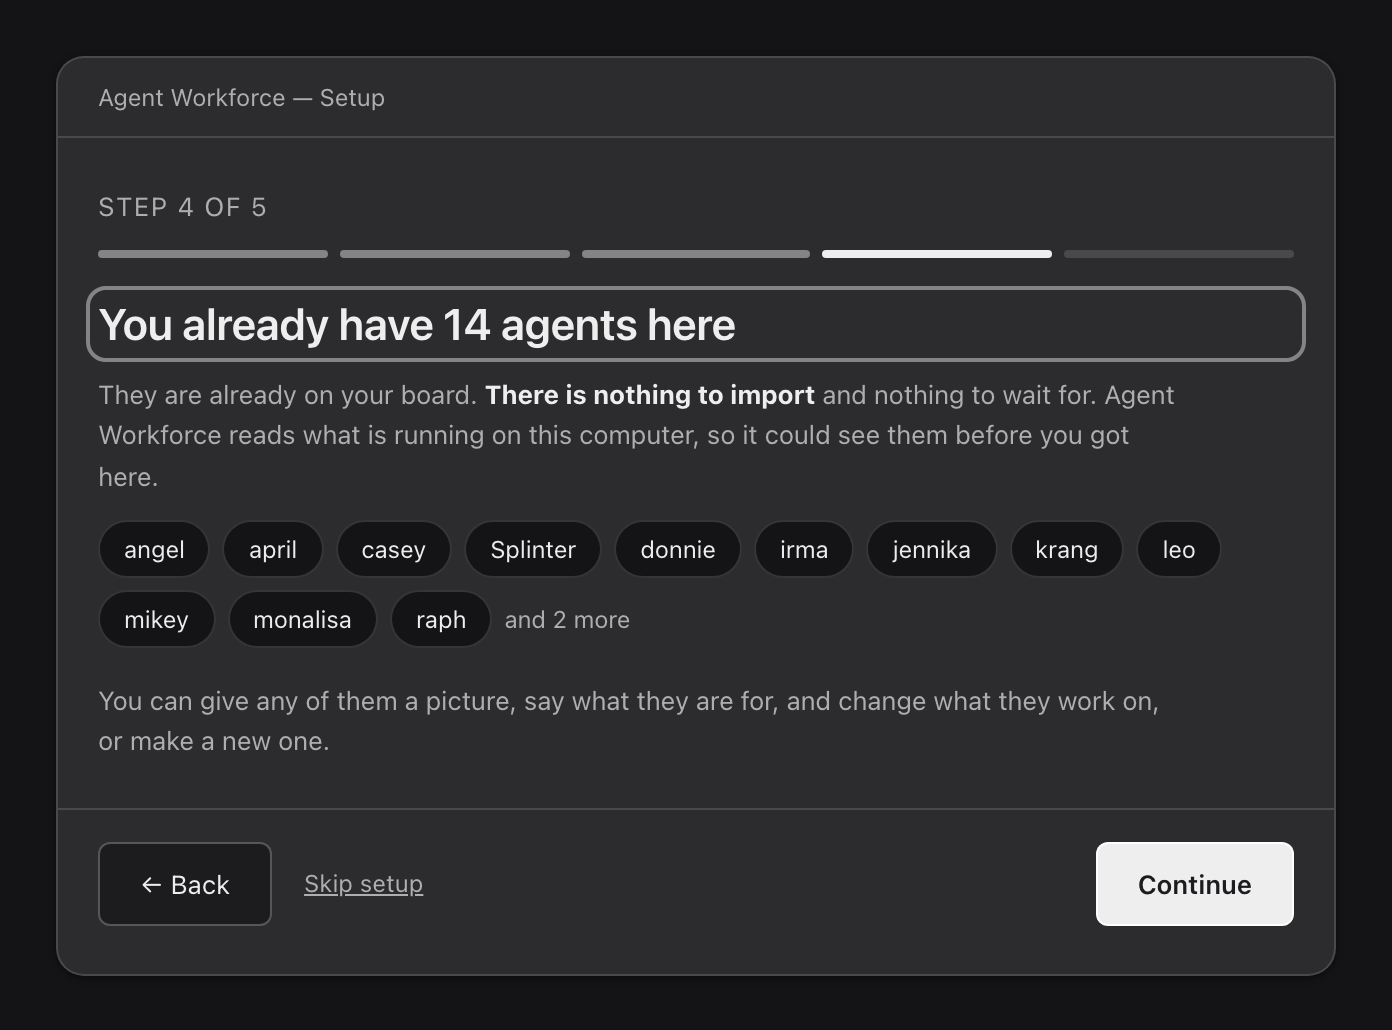
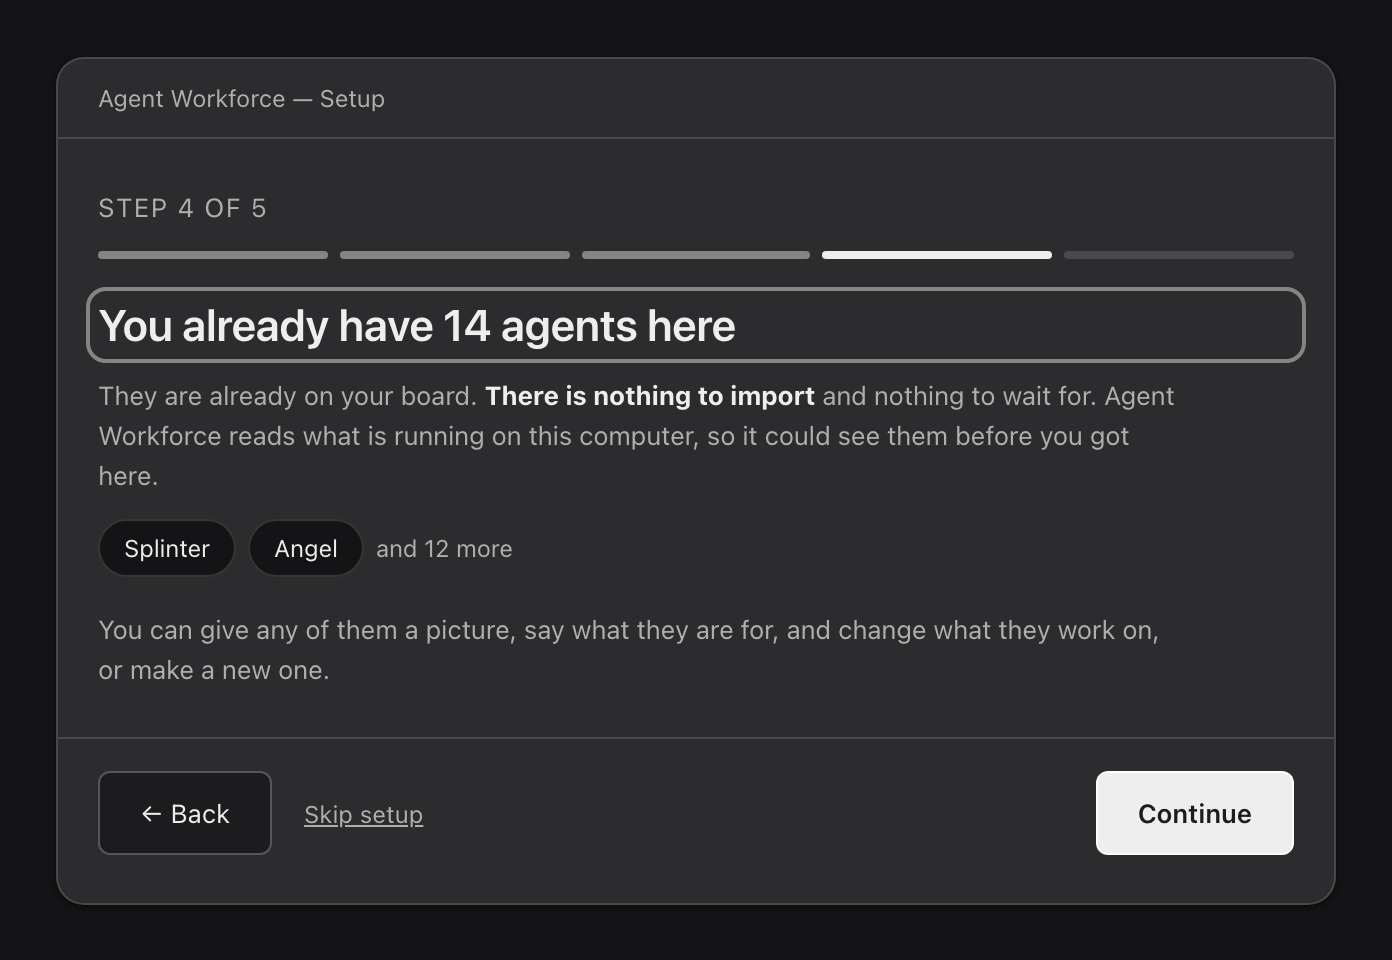
orientation-step -- address review round 7: the triggers are pinned like the guard, every committed picture is machine-independent

diff --git a/docs/browser-checks/render-first-run.js b/docs/browser-checks/render-first-run.js
@@ -16,13 +16,16 @@ const HEADED = process.env.HEADED !== '0';
 fs.mkdirSync(OUT, { recursive: true });
 
 /**
- * ⚠ THERE IS NO ALL-CLEAR FIXTURE, DELIBERATELY. There was one, and it went
- * stale: the engine's restart copy was corrected and the fixture kept the old
- * wording, so the committed screenshot -- which is the PR's visual evidence --
- * showed a screen the product could no longer produce. A hand-written fixture
- * for the HAPPY path is pure drift risk, because the happy path is exactly what
- * this machine already answers. So the clear shot is taken against the LIVE
- * route and cannot disagree with the engine.
+ * ⚠ NO SHOT DEPENDS ON THE MACHINE THAT RENDERS IT, and no fixture is
+ * TYPED. History, because the rule inverted once in each direction: a
+ * hand-written all-clear fixture went stale against corrected engine copy
+ * (so fixtures must be ENGINE-GENERATED, never typed); then the live-route
+ * clear shot became unsatisfiable on any machine without Kosmos.app, and
+ * live-route shots were drifting per machine (a create-path machine would
+ * re-shoot the adopt pictures as create). The standing rule is both
+ * halves: every payload a shot depends on is pinned, and every pinned
+ * payload is generated by the real engine with a control asserting the
+ * state it claims.
  *
  * A machine that is fine cannot be asked to demonstrate a finding, so the mixed
  * case still needs one -- but it is GENERATED BY THE ENGINE rather than typed
@@ -131,7 +134,8 @@ const FLEET_REAL = null; // let the real server answer
 // the live /api/first-run, so a create-path machine would commit different
 // buttons under the same four filenames (the same drift the clear shot was
 // moved off the live route for). Adopt, matching the committed pictures.
-const FLEET_STEP5 = { done: false, fleetKnown: true, fleetCount: 14, fleetNames: ['Splinter', 'Angel'], path: 'adopt', subscription: { state: 'connected', plan: 'Claude Max 20x', because: '' } };
+const FLEET_ADOPT = { done: false, fleetKnown: true, fleetCount: 14, fleetNames: ['Splinter', 'Angel'], path: 'adopt', subscription: { state: 'connected', plan: 'Claude Max 20x', because: '' } };
+const FLEET_STEP5 = FLEET_ADOPT;
 const FLEET_CREATE = { done: false, fleetKnown: true, fleetCount: 0, fleetNames: [], path: 'create', subscription: { state: 'connected', plan: 'Claude Max 20x', because: '' } };
 const FLEET_BLIND = { done: false, fleetKnown: false, fleetCount: null, fleetNames: [], path: 'unknown', subscription: { state: 'connected', plan: 'Claude Max 20x', because: '' } };
 const SUB_NONE = { done: false, fleetKnown: true, fleetCount: 0, fleetNames: [], path: 'create', subscription: { state: 'none', plan: null, because: 'Claude has not been set up on this computer yet.' } };
@@ -141,10 +145,10 @@ const SHOTS = [
   { name: 'firstrun-1-welcome', step: 1 },
   { name: 'firstrun-2-checks-clear', step: 2, machine: MACHINE_CLEAR },
   { name: 'firstrun-2-checks-attention', step: 2, machine: MACHINE_MIXED },
-  { name: 'firstrun-3-claude-connected', step: 3 },
+  { name: 'firstrun-3-claude-connected', step: 3, first: FLEET_ADOPT },
   { name: 'firstrun-3-claude-none', step: 3, first: SUB_NONE },
   { name: 'firstrun-3-claude-unsure', step: 3, first: SUB_UNSURE },
-  { name: 'firstrun-4-adopt', step: 4 },
+  { name: 'firstrun-4-adopt', step: 4, first: FLEET_ADOPT },
   { name: 'firstrun-4-create', step: 4, first: FLEET_CREATE },
   { name: 'firstrun-4-cannot-see', step: 4, first: FLEET_BLIND },
   { name: 'firstrun-5-return-system', step: 5, machine: MACHINE_APP_SYS, first: FLEET_STEP5 },

diff --git a/web/index.html b/web/index.html
@@ -6260,6 +6260,9 @@ setInterval(() => {
 // 5 since the orientation step landed (PIN-2026-08-14-1913CDT: "five setup
 // steps -- welcome, model, this computer, your agents, getting back").
 const FR_STEPS = 5;
+// The return pane's step number, named so the generation bump and the paint
+// branch cannot drift apart the day a sixth step lands.
+const FR_STEP_RETURN = 5;
 let FR = null;            // what /api/first-run said
 let FR_STEP = 1;
 let FR_RETURN = null;     // where the keyboard was before this opened
@@ -6299,12 +6302,6 @@ function frActions(primary, alt) {
 }
 
 function frGo(step) {
-  // ⚠ Leaving step 5 retires its pane: the machine look is async, and an
-  // answer landing after the person moved on must not repaint a pane they
-  // are no longer on. This bump is what makes the generation guard's
-  // premise REAL -- without it the guard had no production trigger and its
-  // test simulated a transition the app never performed (review round 6).
-  if (step !== 5) FR_RETURN_GEN += 1;
   /**
    * ⚠ CLAMPED TO A WHOLE STEP THAT EXISTS, because `?fr-step=` is a deep link
    * and deep links arrive with whatever is typed into them. `frGo(3.7)` hid
@@ -6315,6 +6312,13 @@ function frGo(step) {
    */
   step = Math.trunc(Number(step));
   if (!Number.isFinite(step) || step < 1) step = 1;
+  // ⚠ Leaving step 5 retires its pane: the machine look is async, and an
+  // answer landing after the person moved on must not repaint a pane they
+  // are no longer on. This bump makes the generation guard's premise REAL
+  // (round 6: without it the guard had no production trigger). AFTER the
+  // clamp, so the bump and the paint branch below agree about what `step`
+  // is, and against the named constant rather than a bare 5.
+  if (step !== FR_STEP_RETURN) FR_RETURN_GEN += 1;
   if (step > FR_STEPS) step = FR_STEPS;
   FR_STEP = step;
   // ⚠ Cleared on every step change. It is written once when the completion
@@ -7305,8 +7309,8 @@ async function frPaintReturn() {
   // folder, so they get a Spotlight-anchored variant -- an instruction
   // pointing at a thing the row just said we do not have is the screen
   // contradicting itself.
-  const drag = (found) => '<p><b>Keep it one click away.</b> '
-    + (found
+  const drag = (locFound) => '<p><b>Keep it one click away.</b> '
+    + (locFound
       ? 'Drag Kosmos out of that folder and onto the Dock, the strip of icons along the '
         + 'edge of your screen. It stays there until you take it off.'
       : 'When you have the Kosmos icon in front of you, drag it onto the Dock, the strip '
@@ -7317,7 +7321,7 @@ async function frPaintReturn() {
     // the one sentence on the page that was checkably untrue said it did.
     // Spec deviation recorded for the designer as an amendment of record.
     + '<p>Closing this tab does not stop your agents. '
-    + (found
+    + (locFound
       ? 'They keep working, and clicking the icon brings Kosmos back.'
       : 'They keep working, and they will be here when you open Kosmos again.')
     + '</p>';

diff --git a/server.test.js b/server.test.js
@@ -3134,6 +3134,19 @@ test('the machine route always answers, with renderable checks and never an erro
     'the /api/machine response must carry the appLocation field beside the rows');
 });
 
+test('leaving step 5 really retires its pane (the bumps exist in production code)', () => {
+  // The leave scenarios move the counter through t5.leave(), so they pin
+  // the GUARD; these pins hold the TRIGGERS -- round 7 deleted both
+  // production bumps and the suite stayed green, which silently restores
+  // the round-6 state (a guard no production path ever moves).
+  const raw = fs.readFileSync(nodePath.join(__dirname, 'web', 'index.html'), 'utf8');
+  assert.match(raw, /if \(step !== FR_STEP_RETURN\) FR_RETURN_GEN \+= 1;/,
+    'frGo no longer bumps the return generation on leaving');
+  const closeFn = raw.slice(raw.indexOf('function frClose'), raw.indexOf('function frClose') + 400);
+  assert.match(closeFn, /FR_RETURN_GEN \+= 1;/,
+    'frClose no longer bumps the return generation on the way out');
+});
+
 test('the step-5 live region is static markup with its announcement attributes', () => {
   // The unit harness's DOM stub auto-creates any id, so without this pin
   // the region (and both its ARIA attributes) could be deleted from the

diff --git a/.claude/plans/orientation-step-20260815T0045Z.md b/.claude/plans/orientation-step-20260815T0045Z.md
@@ -207,3 +207,19 @@ pre-write removed from the leave scenario; appFixture's comment names
 root as the blind-fixture failure cause; the folderless closing line
 stops saying Kosmos three times ("they will be here when you open Kosmos
 again").
+
+## Review round 7 (2026-08-14, ~11:45 PM)
+
+No blockers. Warnings closed: the leave TRIGGERS are pinned in committed
+source (round 7 deleted both production bumps and the suite stayed green
+-- the guard was held, the thing making it reachable was not; two source
+pins now red on either bump's removal); the render-first-run header
+states the current rule (every shot-bearing payload pinned AND
+engine-generated with a control -- the old header's own rule, followed,
+would have undone the fix); the last two live-dependent shots
+(firstrun-3-claude-connected, firstrun-4-adopt) are pinned with the
+shared adopt fixture and re-shot. Nits: the generation bump reads the
+CLAMPED step and names FR_STEP_RETURN (a bare 5 and the raw argument
+could drift from the paint branch); the drag helper's parameter no
+longer shadows the row variable. The two-product-names card remains the
+terminology sweep's item, recorded.
